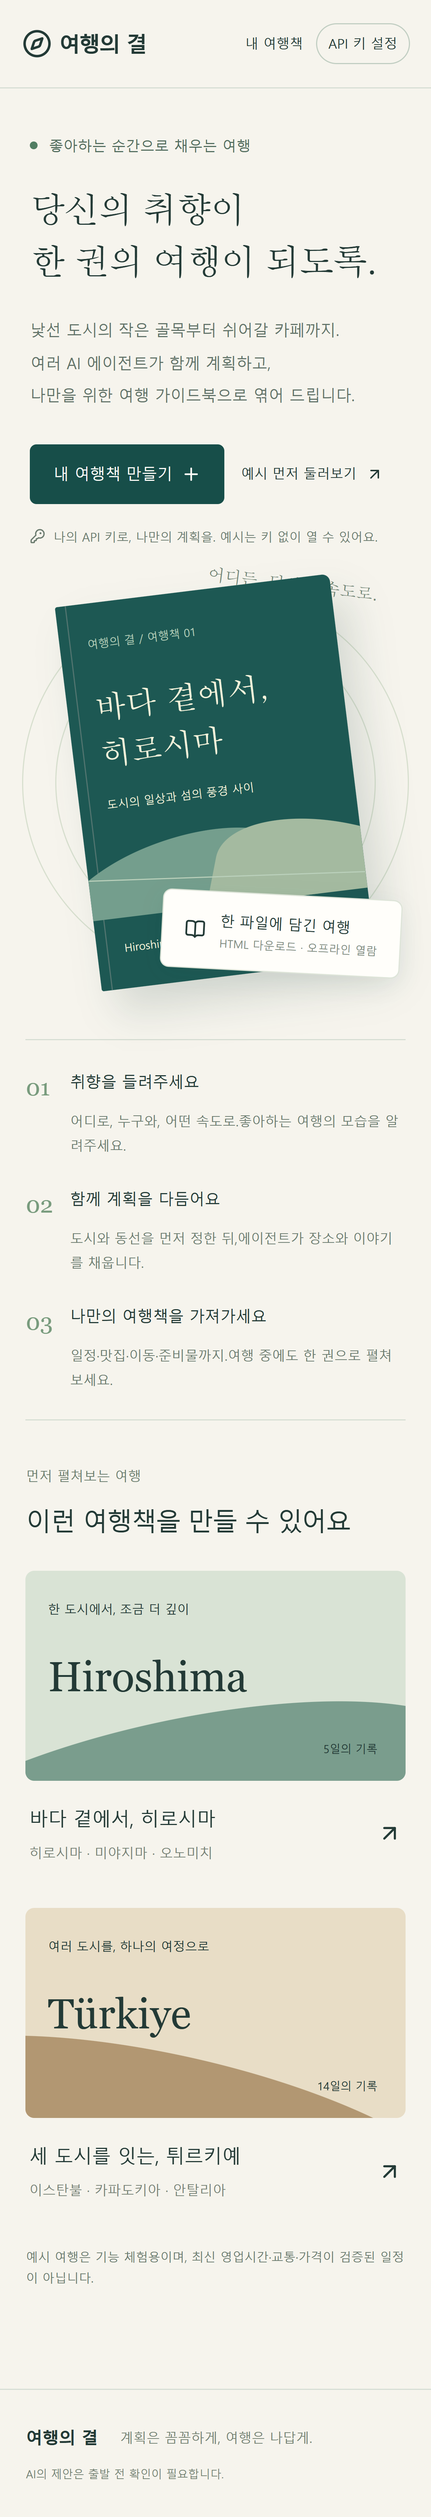
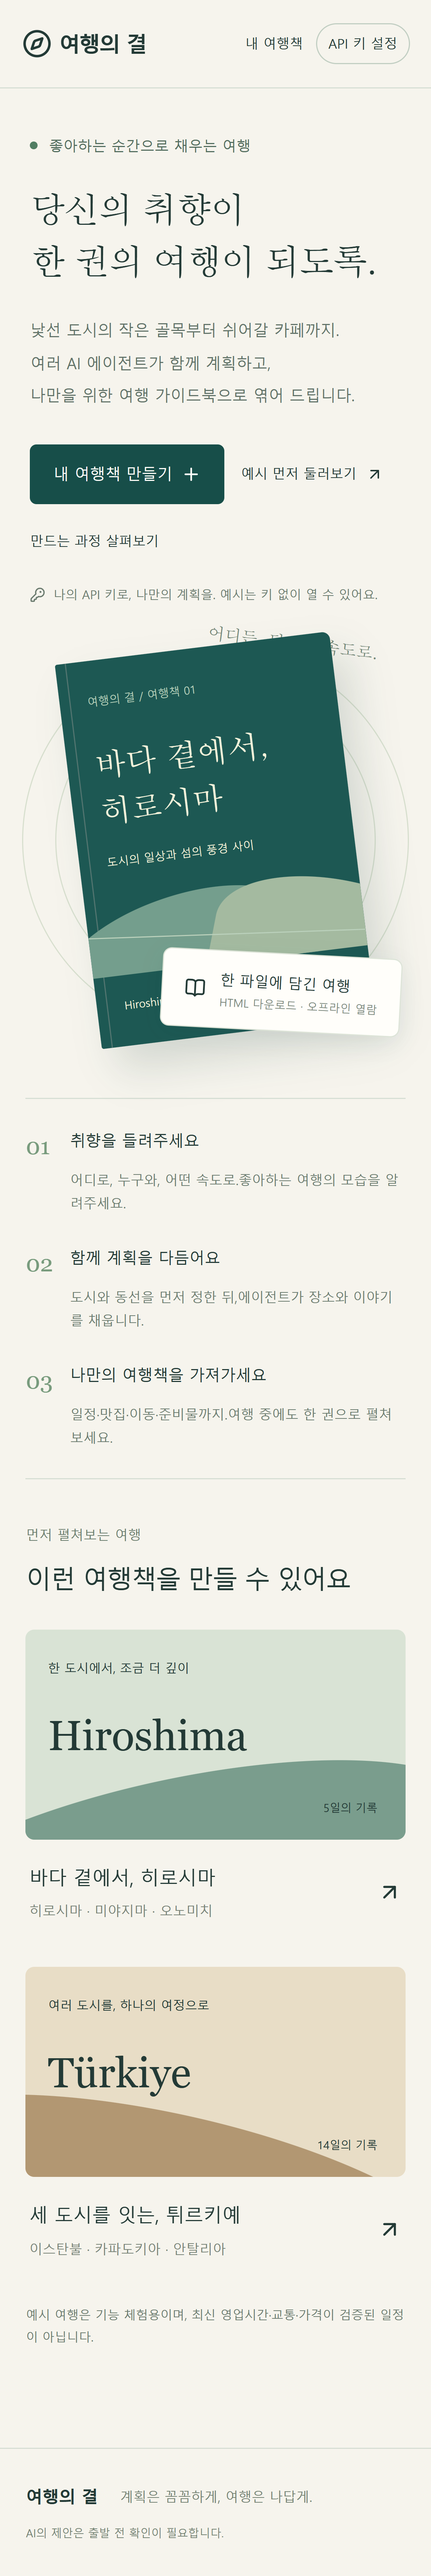
feat: add clearly labeled key-free planning walkthrough

diff --git a/src/components/DemoWalkthrough.tsx b/src/components/DemoWalkthrough.tsx
@@ -1,0 +1,139 @@
+"use client";
+import { useEffect, useState } from "react";
+import * as Dialog from "@radix-ui/react-dialog";
+import { X } from "lucide-react";
+
+const steps = [
+  {
+    role: "총괄",
+    title: "먼저, 여행의 큰 그림을",
+    body: "목적지·기간·예산과 좋아하는 여행 방식을 정리합니다. 도시별 숙박 일수를 제안하고 사용자가 확인합니다.",
+    output: "사용자 확인 → 숙박 거점과 체류 일수",
+  },
+  {
+    role: "장소 조사",
+    title: "취향에 맞는 장소를 조사해요",
+    body: "거점마다 관광지·식당·숙박 지역과 이동 자료를 조사합니다. 출처가 없거나 확인하지 못한 정보는 구분합니다.",
+    output: "자료 조사 → 장소 후보와 연결된 출처",
+  },
+  {
+    role: "일정·이동",
+    title: "하루하루 무리 없이 이어지도록",
+    body: "이동·식사·휴식을 날짜별로 배치합니다. 확정 일정과 첫날·마지막 날의 활동 가능 시간을 검사합니다.",
+    output: "날짜별 구성 → 시간표와 이동·휴식",
+  },
+  {
+    role: "예산",
+    title: "모르는 비용을 0원으로 숨기지 않아요",
+    body: "일행 전체 경비를 분류합니다. 입력·추정 금액과 미확인 비용을 구분하고 예산 초과와 누락을 살펴봅니다.",
+    output: "비용 검토 → 항목별 경비와 미확인 목록",
+  },
+  {
+    role: "큐레이터·검토",
+    title: "설명을 더하고, 한 번 더 검토해요",
+    body: "조사 자료를 바탕으로 설명과 팁을 작성합니다. 검토 후 필요한 날을 최대 두 번 수정하고, 남은 문제는 확인 사항으로 남깁니다.",
+    output: "설명과 재검토 → 나만의 가이드북 초안",
+  },
+  {
+    role: "가이드북",
+    title: "여행 중에도 펼쳐 볼 한 권",
+    body: "일정을 직접 다듬고 파일에 포함할 내용을 확인합니다. 단일 HTML로 내려받으면 본문은 오프라인에서도 읽을 수 있습니다.",
+    output: "사용자 확인 → HTML 여행 가이드북",
+  },
+];
+
+export function DemoWalkthrough({
+  onClose,
+  onOpenExample,
+}: {
+  onClose: () => void;
+  onOpenExample: () => void;
+}) {
+  const [step, setStep] = useState(0);
+  const [playing, setPlaying] = useState(false);
+  useEffect(() => {
+    if (!playing) return;
+    const timer = setTimeout(() => {
+      if (step === steps.length - 1) setPlaying(false);
+      else setStep(step + 1);
+    }, 4500);
+    return () => clearTimeout(timer);
+  }, [playing, step]);
+  const current = steps[step];
+  return (
+    <Dialog.Root
+      open
+      onOpenChange={(open) => {
+        if (!open) onClose();
+      }}
+    >
+      <Dialog.Portal>
+        <Dialog.Overlay className="modal-overlay" />
+        <Dialog.Content className="modal demo-modal">
+          <Dialog.Title>가이드북이 만들어지는 과정</Dialog.Title>
+          <Dialog.Description>
+            예시 재생입니다. AI·검색 API를 호출하거나 새 여행을 생성하지 않으며,
+            사용 요금이 발생하지 않습니다.
+          </Dialog.Description>
+          <p className="demo-label">
+            예시 재생 · {step + 1} / {steps.length}
+          </p>
+          <progress
+            aria-label="예시 진행 단계"
+            value={step + 1}
+            max={steps.length}
+          />
+          <section className="demo-stage" aria-live="polite" aria-atomic="true">
+            <span>{current.role}</span>
+            <h3>{current.title}</h3>
+            <p>{current.body}</p>
+            <strong>{current.output}</strong>
+          </section>
+          <div className="modal-actions">
+            <button
+              className="secondary"
+              disabled={step === 0}
+              onClick={() => {
+                setPlaying(false);
+                setStep(step - 1);
+              }}
+            >
+              이전 단계
+            </button>
+            <button
+              className="secondary"
+              onClick={() => {
+                if (!playing && step === steps.length - 1) setStep(0);
+                setPlaying(!playing);
+              }}
+            >
+              {playing ? "일시 정지" : "자동 재생"}
+            </button>
+            {step < steps.length - 1 ? (
+              <button
+                className="primary"
+                onClick={() => {
+                  setPlaying(false);
+                  setStep(step + 1);
+                }}
+              >
+                다음 단계
+              </button>
+            ) : (
+              <button className="primary" onClick={onOpenExample}>
+                예시 가이드북 열기
+              </button>
+            )}
+          </div>
+          <p className="quiet-note">
+            다음에 열리는 여행책도 체험용 예시입니다. 실제 생성에는 본인 API
+            키가 필요합니다.
+          </p>
+          <Dialog.Close className="modal-close" aria-label="예시 재생 닫기">
+            <X size={20} />
+          </Dialog.Close>
+        </Dialog.Content>
+      </Dialog.Portal>
+    </Dialog.Root>
+  );
+}

diff --git a/src/app/page.tsx b/src/app/page.tsx
@@ -43,6 +43,7 @@ import { downloadFile } from "../lib/export";
 import { ExportDialog } from "../components/ExportDialog";
 import { ReservationsEditor } from "../components/ReservationsEditor";
 import { CostEditor } from "../components/CostEditor";
+import { DemoWalkthrough } from "../components/DemoWalkthrough";
 import { guidebookCss } from "../lib/guidebook-style";
 import { draftKey, readDraft, encodeDraft } from "../lib/draft";
 import { moveActivity } from "../lib/editing";
@@ -95,6 +96,7 @@ export default function Home() {
   const [key, setKey] = useState("");
   const [keyOpen, setKeyOpen] = useState(false);
   const [exportOpen, setExportOpen] = useState(false);
+  const [demoOpen, setDemoOpen] = useState(false);
   const [busy, setBusy] = useState("");
   const [error, setError] = useState("");
   const [notice, setNotice] = useState("");
@@ -682,6 +684,12 @@ export default function Home() {
                     }
                   >
                     예시 먼저 둘러보기 <ArrowUpRight size={16} />
+                  </button>
+                  <button
+                    className="text-button"
+                    onClick={() => setDemoOpen(true)}
+                  >
+                    만드는 과정 살펴보기
                   </button>
                 </div>
                 <p className="quiet-note">
@@ -1495,6 +1503,15 @@ export default function Home() {
         <p>계획은 꼼꼼하게, 여행은 나답게.</p>
         <small>AI의 제안은 출발 전 확인이 필요합니다.</small>
       </footer>
+      {demoOpen && (
+        <DemoWalkthrough
+          onClose={() => setDemoOpen(false)}
+          onOpenExample={() => {
+            setDemoOpen(false);
+            openExample(0);
+          }}
+        />
+      )}
       {exportOpen && trip && (
         <ExportDialog trip={trip} onClose={() => setExportOpen(false)} />
       )}

diff --git a/e2e/guidebook.spec.ts b/e2e/guidebook.spec.ts
@@ -1,6 +1,39 @@
 import { test, expect } from "@playwright/test";
 import fs from "node:fs/promises";
 import { examples } from "../src/lib/examples";
+test("예시 재생은 API 없이 단계 이동·일시 정지 후 가이드북으로 이어진다", async ({
+  page,
+}) => {
+  const calls: string[] = [];
+  page.on("request", (request) => {
+    if (request.url().includes("/api/agent")) calls.push(request.url());
+  });
+  await page.clock.install();
+  await page.goto("/");
+  await page.getByRole("button", { name: "만드는 과정 살펴보기" }).click();
+  const dialog = page.getByRole("dialog");
+  await expect(dialog.getByText(/AI·검색 API를 호출하거나/)).toBeVisible();
+  await dialog.getByRole("button", { name: "자동 재생", exact: true }).click();
+  await page.clock.fastForward(4500);
+  await expect(
+    dialog.getByText("예시 재생 · 2 / 6", { exact: true }),
+  ).toBeVisible();
+  await dialog.getByRole("button", { name: "일시 정지" }).click();
+  await page.clock.fastForward(9000);
+  await expect(
+    dialog.getByText("예시 재생 · 2 / 6", { exact: true }),
+  ).toBeVisible();
+  for (let step = 0; step < 4; step++)
+    await dialog
+      .getByRole("button", { name: "다음 단계", exact: true })
+      .click();
+  await dialog.getByRole("button", { name: "예시 가이드북 열기" }).click();
+  await expect(
+    page.getByRole("heading", { name: "바다 곁에서, 히로시마", exact: true }),
+  ).toBeVisible();
+  await expect(page.getByText("체험용 예시", { exact: true })).toBeVisible();
+  expect(calls).toHaveLength(0);
+});
 test("생성 후 검토·자동 수정·재검토를 거쳐 가이드북을 연다", async ({
   page,
 }) => {

diff --git a/src/app/globals.css b/src/app/globals.css
@@ -816,6 +816,47 @@ label small {
 .modal h2 {
   font-size: 24px;
 }
+.demo-modal progress {
+  width: 100%;
+  height: 6px;
+  accent-color: #174e49;
+}
+.demo-label {
+  font-weight: 700;
+  color: #174e49;
+}
+.demo-stage {
+  min-height: 255px;
+  padding: 28px 0;
+}
+.demo-stage > span {
+  font-size: 12px;
+  color: #637760;
+}
+.demo-stage h3 {
+  font-size: 24px;
+  line-height: 1.5;
+  margin: 14px 0;
+  word-break: keep-all;
+}
+.demo-stage p {
+  font-size: 14px;
+  line-height: 1.9;
+}
+.demo-stage strong {
+  display: block;
+  font-size: 13px;
+  color: #174e49;
+  margin-top: 22px;
+}
+.library-list > div {
+  flex-wrap: wrap;
+  gap: 10px;
+}
+.library-list > div > button:first-child {
+  flex: 1 1 240px;
+  min-width: 0;
+}
 .modal.export-modal {
   max-width: 960px;
 }

diff --git a/docs/implementation-status.md b/docs/implementation-status.md
@@ -6,7 +6,7 @@
 - Next.js 프로덕션 빌드 통과(Webpack).
 - TypeScript 검사 통과.
 - 단위·로컬 DB 테스트 39개 통과: 날짜·출처 연결·고정 변경, 위험 링크·HTML 주입, 날짜별 생성 재개, API 오류 마스킹·동시 실행 잠금, 미완성 입력 초안 복원·알 수 없는 필드 제외, 활동 순서 교환·고정 보호·시간 겹침, 내보내기 선택 적용과 원본 보존, 확정 예약・활동 가능 시간 제약·응답 거절과 재개 등.
-- Chrome 데스크톱/모바일 E2E 18개 통과: 예시 수동 편집·보관·HTML 다운로드·오프라인 읽기, 키 비저장·새로고침 삭제, 잘못된 날짜 입력, 입력 초안 자동 보관·복원·삭제, 체류 시간·순서 변경·고정 보호, 확정 예약 추가·충돌 거절·복원·삭제.
+- Chrome 데스크톱/모바일 E2E 20개 통과: 예시 수동 편집·보관·HTML 다운로드·오프라인 읽기, 키 비저장·새로고침 삭제, 잘못된 날짜 입력, 입력 초안 자동 보관·복원·삭제, 체류 시간·순서 변경·고정 보호, 확정 예약 추가·충돌 거절·복원·삭제.
 - 확정 일정은 날짜·시작 시간·소요 시간·종류·이름으로 입력한다. AI의 날짜별 생성과 재생성에서 예약 누락·변경·고정 해제·중복·다른 활동과의 겹침을 거절한다. 확정 일정끼리 겹침·기간 밖 날짜·자정 초과도 입력에서 거절한다. 자유 서술 메모의 모든 조건을 구조화한 것은 아니며 실제 예약 유효성은 검증하지 않는다.
 - 첫날 활동 시작 가능 시간과 마지막 날 활동 종료 시간을 현지 시간으로 입력·복원하고 가이드북에 표시한다. 모든 활동 종류에 적용하며 날짜별 생성과 재생성의 위반 응답을 거절한다. 당일 여행의 시간 역전과 가능 시간 밖의 확정 예약을 입력 단계에서 검사한다. 공항 이동·수속 여유는 사용자가 반영하며 항공편 운항을 조회하거나 자유 서술 도착 시간을 자동 해석한 결과가 아니다.
 - 활동 순서 변경은 인접 활동과 시작 시간을 교환한다. 체류 시간·이동 정보는 유지하고 시간 충돌은 자동 검사로 알린다. 수동 편집 시 이전 상태의 AI 수정안을 닫는다.
@@ -19,6 +19,7 @@
 - 조사도 중복을 제거한 숙박 거점별 요청으로 분할한다. 완료한 거점의 자료를 체크포인트에 보존하며 실패한 거점부터 재개한다. 합칠 때 거점별 출처 ID와 문장 연결을 유지하고 길이 제한으로 생략한 자료는 명시한다. 여러 거점의 출처 충돌 방지와 실패 후 재개를 모의 테스트로 확인했다.
 - 골격 승인 화면에서 기본 생성 요청 횟수와 재시도·도구 검색에 따른 추가 사용량 가능성을 안내한다. 실제 과금액을 계산하거나 확정하지 않는다.
 - 가이드북은 단일 HTML로 내보내며 비용 미확인을 0원과 구분한다.
+- 홈의 '만드는 과정 살펴보기'에서 역할별 예시 설명을 수동 이동·자동 재생·일시 정지할 수 있다. 실제 호출이 아닌 예시임을 표시하고 체험용 가이드북으로 연결한다. 데스크톱·모바일에서 진행·일시 정지·API 요청 없음·예시 열기를 검증했다.
 - 잠정 잔여 예산·초과 금액을 표시하며 미확인·미입력 경비가 빠진 수치임을 알린다. 수동 환산은 원래 금액·통화·1단위당 환율·기준일·출처를 보존하고 통화별 소수 단위를 반영한다. 직접 비용을 수정하면 기존 환산 기록을 제거한다. AI가 새로 만든 환산 기록을 사용자 입력으로 표시하지 않으며, 실제 환율을 조회하지 않는다.
 - 내보내기 전 소개·동행 정보, 활동 설명, 숙박 상세, 예산 포함 여부를 선택하고 동일한 출력 HTML을 미리 본다. 선택은 원본을 바꾸지 않는다. 자유 서술 속 개인정보 자동 탐지·삭제 기능은 아니며, 남는 제목·출처·다른 문장을 확인하도록 안내한다.
 - Chrome 인쇄 미디어에서 접힌 날짜 본문이 펼쳐지고 목차가 숨겨짐을 데스크톱·모바일 E2E에서 확인했다. 데스크톱 PDF 파일 생성도 확인했다. 모든 브라우저의 인쇄 결과나 모든 여행 길이의 페이지 구성을 검증한 것은 아니다.
@@ -39,7 +40,7 @@
 - 예약 관리 코드를 별도 비공개 필드로 분리하고 생성 본문에 전달하지 않는 구조 보완. 긴 가이드북 인쇄의 페이지 분할과 다른 브라우저 확인.
 - 실제 Supabase에서 계정 저장·버전 보존·삭제와 인증 흐름 검증. 생성 중 상태·중단 경쟁 조건 E2E.
 - 실제 도구 응답으로 거점별 조사 품질과 검색 출처 대응을 검증.
-- 키 없는 진행 예시 재생, 영상 코드 및 렌더링.
+- 영상 코드 및 렌더링.
 - 공개 배포 URL, 별도 날짜 5일 이상 커밋, 사용자 디자인 수정 3건, 두 영상, 최종 CHECKLIST와 패들릿 제출.
 
 ## 작업 기록
